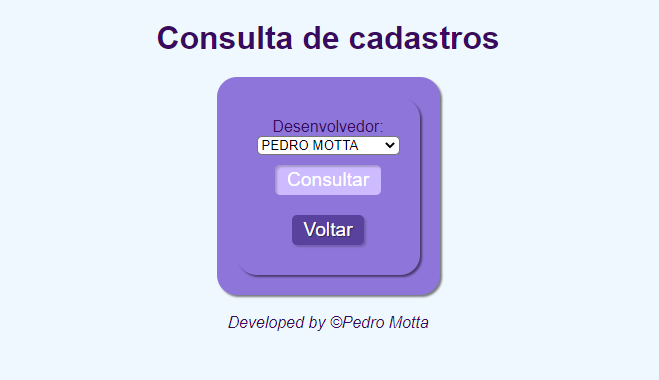
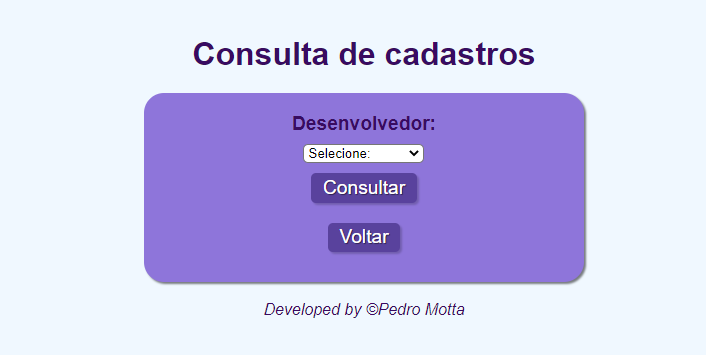
:zap: Update

Changed region(s): [[0.1821, 0.062, 0.8498, 0.8056], [0.3642, 0.3099, 0.6373, 0.7437], [0.3338, 0.8366, 0.6677, 0.8986]]

diff --git a/app/cadastrar.html b/app/cadastrar.html
@@ -6,7 +6,7 @@
     <meta http-equiv="X-UA-Compatible" content="IE=edge">
     <meta name="viewport" content="width=device-width, initial-scale=1.0">
     <title>Cadastro</title>
-    <link rel="stylesheet" href="style.css">
+    <link rel="stylesheet" href="../css/style.css">
 </head>
 
 <body>
@@ -14,7 +14,7 @@
         <h1>Cadastro de DEVs</h1>
         <p>Complete suas informações</p>
     </header>
-    <form action="./funcao/cadastrar.php" method="POST">
+    <form action="cadastrar.php" method="POST">
         <fieldset>
             <div class="nome">
                 <label for="nome">Nome <input required type="text" name="nome" id="nome"></label>
@@ -70,7 +70,7 @@
     <footer>
         <p>Developed by &copy;Pedro Motta</p>
     </footer>
-    <script src="main.js"></script>
+    <script src="../js/main.js"></script>
 </body>
 
 </html>

diff --git a/css/style.css b/css/style.css
@@ -22,13 +22,27 @@ form {
     box-shadow: 2px 2px 2px rgba(0, 0, 0, 0.5);
 }
 
+.consulta-form{
+    box-shadow: none;
+    margin-top: 0;
+    padding: 0;
+}
+
+.consulta-form p{
+    font-size: 1.2rem;
+    margin-bottom: -6%;
+    font-weight: bold;
+}
+
 section{
-    display: inline-block;
-    margin-top: 1%;
+    display: block;
+    margin-top: 1%!important;
+    margin: auto;
     background-color: #8e75da;
     border-radius: 20px;
     padding: 20px;
     box-shadow: 2px 2px 2px rgba(0, 0, 0, 0.5);
+    width: 400px;
 }
 
 header{

diff --git a/index.html b/index.html
@@ -6,7 +6,7 @@
     <meta http-equiv="X-UA-Compatible" content="IE=edge">
     <meta name="viewport" content="width=device-width, initial-scale=1.0">
     <title>Menu</title>
-    <link rel="stylesheet" href="style.css">
+    <link rel="stylesheet" href="css/style.css">
 </head>
 
 <body>
@@ -20,7 +20,7 @@
     <footer>
         <p>Developed by &copy;Pedro Motta</p>
     </footer>
-    <script src="main.js"></script>
+    <script src="js/main.js"></script>
 </body>
 
 </html>

diff --git a/js/main.js b/js/main.js
@@ -1,0 +1,11 @@
+function cadastrar() {
+    window.location.href = "./app/cadastrar.html"
+}
+
+function voltar() {
+    window.location.href = "../"
+}
+
+function consultar() {
+    window.location.href = "./app/consulta.php"
+}

diff --git a/app/cadastros.php b/app/cadastros.php
@@ -1,0 +1,39 @@
+<!DOCTYPE html>
+<html lang="pt-br">
+<head>
+    <meta charset="UTF-8">
+    <meta http-equiv="X-UA-Compatible" content="IE=edge">
+    <meta name="viewport" content="width=device-width, initial-scale=1.0">
+    <title>Cadastros</title>
+    <link rel="stylesheet" href="../css/style.css">
+    <?php
+        $id = $_POST["id"];
+        include 'banco.php';
+
+        $query = "SELECT * FROM devs WHERE ID = $id;";
+        $query = mysqli_query($db, $query);
+        $sel = mysqli_fetch_array($query);
+
+    ?>
+</head>
+<body>
+    <header>
+        <h1>Cadastro</h1>
+    </header>
+    <section>
+        <label for="nome">
+            <strong>Nome:</strong><?php echo $sel["nome"] ?><br>
+            <strong>Sobrenome:</strong><?php echo $sel["sobrenome"]?><br>
+            <strong>Email:</strong><?php echo $sel["email"]?><br>
+            <strong>Lado:</strong><?php echo $sel["lado"]?><br>
+            <strong>Senioridade:</strong><?php echo $sel["senioridade"]?><br>
+            <strong>Tecnologias:</strong><?php echo $sel["tecnologias"]?><br>
+            <strong>Experiência:</strong><?php echo $sel["experiencia"]?><br>
+            <button onclick="voltar()">Voltar</button>
+        </section>
+    <footer>
+        <p>Developed by &copy;Pedro Motta</p>
+    </footer>
+    <script src="../js/main.js"></script>
+</body>
+</html>

diff --git a/app/consulta.php b/app/consulta.php
@@ -6,9 +6,9 @@
     <meta http-equiv="X-UA-Compatible" content="IE=edge">
     <meta name="viewport" content="width=device-width, initial-scale=1.0">
     <title>Consulta</title>
-    <link rel="stylesheet" href="style.css">
+    <link rel="stylesheet" href="../css/style.css">
     <?php
-    include 'funcao/banco.php';
+    include 'banco.php';
 
     $query = "SELECT * FROM devs";
     
@@ -21,8 +21,8 @@
         <h1>Consulta de cadastros</h1>
     </header>
     <section>
-        <form action="funcao/cadastros.php" method="POST">
-            <label for="id">Desenvolvedor: <br>
+        <form class="consulta-form" action="cadastros.php" method="POST">
+            <label for="id"><p>Desenvolvedor:</p> <br>
             <select id="id" name="id" required>   
                 <option value="" selected="selected">Selecione:</option>
                 <?php
@@ -42,7 +42,7 @@
     <footer>
         <p>Developed by &copy;Pedro Motta</p>
     </footer>
-    <script src="main.js"></script>
+    <script src="../js/main.js"></script>
 </body>
 
 </html>

diff --git a/app/cadastrar.php b/app/cadastrar.php
@@ -20,10 +20,10 @@ $query = "INSERT INTO `$tabela1` (`NOME`, `SOBRENOME`, `EMAIL`, `LADO`, `SENIORI
 #$executar = mysqli_query($db,$query);
 if (mysqli_query($db,$query)) {
     echo("<script language = 'javascript'> alert('Cadastro realizado com sucesso!'); </script>");
-    echo("<script language = 'javascript'> location.href = '../cadastrar.html'; </script>");
+    echo("<script language = 'javascript'> location.href = '../app/cadastrar.html'; </script>");
 } else {
     echo("<script language = 'javascript'> alert('Erro no sistema!'); </script>");
-    echo("<script language = 'javascript'> location.href = '../cadastrar.html'; </script>");
+    echo("<script language = 'javascript'> location.href = '../app/cadastrar.html'; </script>");
     #echo "Error: " . $query . "<br>" . mysqli_error($db);
 }
 mysqli_close($db);
